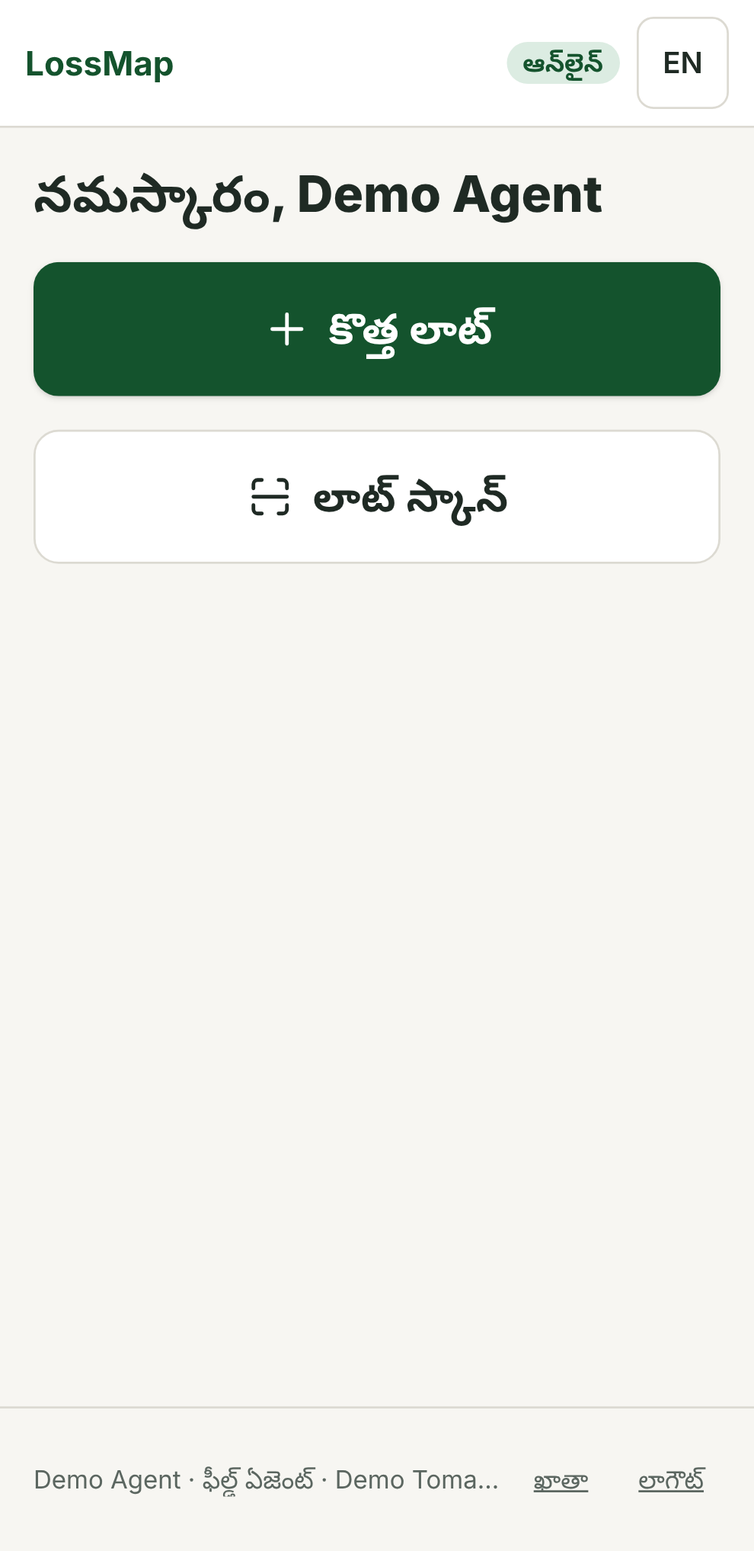
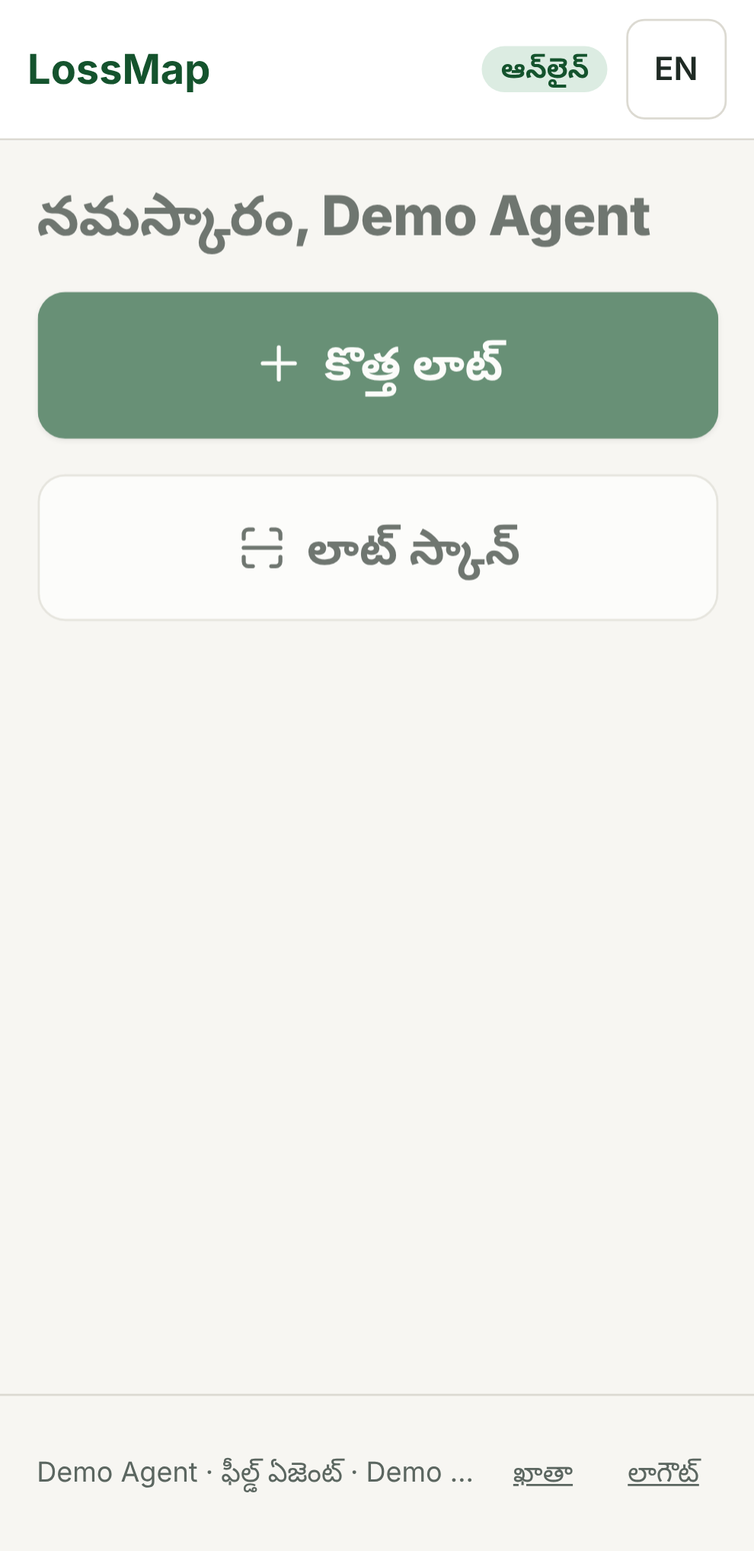
Bigger, more distinctive dashboard and field UI
- Bump the root font-size (16px -> 17.5px) so every rem-based Tailwind
  size (text, padding, tap targets) scales together; verified against
  both 360px-no-overflow e2e tests and the WCAG/tap-target suite.
- Give the manager Overview KPI tiles coloured icon badges (rupee, pin,
  bell) and a gradient treatment on the headline ₹ figure, instead of
  plain text labels, for a more distinctive, scannable dashboard.
- Add hover/press affordances throughout: lifting cards (.card-hover),
  an animated underline on the active nav tab, row hover highlights on
  every clickable table/list row, and a brightness hover on chart bars
  so they read as clickable before you try.
- Add a subtle fade-in-up entrance animation on page content (guarded by
  prefers-reduced-motion) and a shared .skeleton pulse style for loading
  states.
- Bump section/page headings one step up the type scale app-wide for
  clearer hierarchy, and widen the Login/Home hero text.

Verified: 44 core+web unit tests, lint, typecheck, production build, and
all 44 Playwright tests (incl. both 360px-overflow checks and WCAG 2.1
A/AA + 44px tap targets) pass after the type-scale change. Screenshots
regenerated.

diff --git a/web/src/pages/manager/Overview.tsx b/web/src/pages/manager/Overview.tsx
@@ -7,6 +7,7 @@ import { InsightCard } from '../../components/manager/InsightCard.tsx';
 import { loadOverview, loadSegments, type Segment } from '../../lib/manager/analytics.ts';
 import { hoursLabel, inr, pct } from '../../lib/manager/format.ts';
 import { loadMasterCached } from '../../lib/master.ts';
+import { BellIcon, PinIcon, RupeeIcon } from '../../components/Icon.tsx';
 import type { Centre } from '../../lib/db.ts';
 
 const BarsChart = lazy(() => import('../../components/manager/Charts.tsx').then((m) => ({ default: m.BarsChart })));
@@ -28,7 +29,7 @@ export default function Overview() {
   const k = d?.kpis;
   return (
     <ManagerShell>
-      <div className="flex flex-wrap items-center gap-2"><h1 className="text-xl font-extrabold">{t('mgr_overview')}</h1>{orgIsDemo && <SimulatedBadge />}<span className="flex-1" />
+      <div className="flex flex-wrap items-center gap-2"><h1 className="text-2xl font-extrabold">{t('mgr_overview')}</h1>{orgIsDemo && <SimulatedBadge />}<span className="flex-1" />
         <select className="input !min-h-10 !w-auto !text-base" value={days ?? ''} onChange={(e) => setDays(e.target.value ? Number(e.target.value) : null)} aria-label={t('period')}>
           <option value="">{t('allTime')}</option><option value="7">{t('lastDays', { n: 7 })}</option><option value="14">{t('lastDays', { n: 14 })}</option><option value="30">{t('lastDays', { n: 30 })}</option></select></div>
       {err && <p role="alert" className="text-danger">{t('error')}</p>}
@@ -37,30 +38,39 @@ export default function Overview() {
       {d && k && (
         <>
           <div className="grid grid-cols-1 gap-3 sm:grid-cols-3">
-            <div className="card" data-testid="kpi-lost"><div className="text-sm text-muted">{t('kpiLost')}</div><div className="text-3xl font-extrabold" style={{ color: 'var(--s2)' }}>{inr(k.total_loss_rs)}</div><div className="text-sm">{t('kpiOf', { pct: pct(k.loss_pct), value: inr(k.value_in), lots: k.lots })}</div></div>
-            <div className="card" data-testid="kpi-worst"><div className="text-sm text-muted">{t('kpiWorst')}</div><div className="text-xl font-extrabold">{k.worst_centre_name ?? '—'}</div><div className="text-sm">{inr(k.worst_centre_loss_rs)}</div></div>
-            <Link to="/m/alerts" className="card" data-testid="kpi-alerts"><div className="text-sm text-muted">{t('kpiAlerts')}</div><div className="text-3xl font-extrabold">{k.open_alerts}</div></Link>
+            <div className="card flex items-start gap-3" data-testid="kpi-lost">
+              <div className="badge-icon bg-[var(--s2)]/15 text-[var(--s2)]"><RupeeIcon className="size-5" /></div>
+              <div className="min-w-0"><div className="text-sm text-muted">{t('kpiLost')}</div><div className="text-figure text-3xl font-extrabold sm:text-4xl">{inr(k.total_loss_rs)}</div><div className="text-sm">{t('kpiOf', { pct: pct(k.loss_pct), value: inr(k.value_in), lots: k.lots })}</div></div>
+            </div>
+            <div className="card flex items-start gap-3" data-testid="kpi-worst">
+              <div className="badge-icon bg-brand/15 text-brand-strong"><PinIcon className="size-5" /></div>
+              <div className="min-w-0"><div className="text-sm text-muted">{t('kpiWorst')}</div><div className="truncate text-xl font-extrabold sm:text-2xl">{k.worst_centre_name ?? '—'}</div><div className="text-sm">{inr(k.worst_centre_loss_rs)}</div></div>
+            </div>
+            <Link to="/m/alerts" className="card card-hover flex items-start gap-3" data-testid="kpi-alerts">
+              <div className="badge-icon bg-warn/15 text-warn"><BellIcon className="size-5" /></div>
+              <div><div className="text-sm text-muted">{t('kpiAlerts')}</div><div className="text-3xl font-extrabold sm:text-4xl">{k.open_alerts}</div></div>
+            </Link>
           </div>
           <InsightCard />
-          <section className="card space-y-2"><h2 className="font-bold">{t('byStage')}</h2>
+          <section className="card space-y-2"><h2 className="text-lg font-bold">{t('byStage')}</h2>
             <Suspense fallback={<p className="text-muted">{t('loading')}</p>}><div data-testid="stage-chart"><BarsChart label={t('byStage')} data={d.stages.map((s) => ({ key: s.kind, name: t(`stage_${s.kind}`), value: s.total_loss_rs }))} onPick={(kind) => open({ kind, title: t(`stage_${kind}`) })} /></div></Suspense>
             <table className="w-full text-sm" data-testid="stage-table"><thead><tr className="text-left text-muted"><th>{t('stage')}</th><th className="text-right">₹</th><th className="text-right">%</th></tr></thead>
-              <tbody>{d.stages.map((s) => <tr key={s.kind} className="cursor-pointer border-t border-line" onClick={() => open({ kind: s.kind, title: t(`stage_${s.kind}`) })}><td className="py-2">{t(`stage_${s.kind}`)}</td><td className="text-right">{inr(s.total_loss_rs)}</td><td className="text-right">{pct(s.loss_pct)}</td></tr>)}</tbody></table>
+              <tbody>{d.stages.map((s) => <tr key={s.kind} className="cursor-pointer border-t border-line transition-colors hover:bg-line/40" onClick={() => open({ kind: s.kind, title: t(`stage_${s.kind}`) })}><td className="py-2.5">{t(`stage_${s.kind}`)}</td><td className="text-right">{inr(s.total_loss_rs)}</td><td className="text-right">{pct(s.loss_pct)}</td></tr>)}</tbody></table>
             <p className="text-xs text-muted">{t('pctNote')}</p></section>
           <div className="grid gap-4 md:grid-cols-2">
-            <section className="card space-y-2"><h2 className="font-bold">{t('byCentre')}</h2>
-              <ol className="space-y-2" data-testid="centre-ranking">{d.centres.map((c) => <li key={c.centre_id}><button className="flex w-full items-center justify-between gap-2 text-left" onClick={() => open({ centreId: c.centre_id, title: c.centre_name })}><span><b>{c.centre_name}</b><br /><span className="text-xs text-muted">{t('avgWait')} {hoursLabel(c.avg_wait_h)} · {c.lots} {t('lots')}</span></span><span className="text-right"><b style={{ color: 'var(--s2)' }}>{pct(c.loss_pct)}</b><br /><span className="text-xs">{inr(c.total_loss_rs)}</span></span></button></li>)}</ol></section>
-            <section className="card space-y-2"><h2 className="font-bold">{t('byTransporter')}</h2>
-              <ol className="space-y-2" data-testid="transporter-ranking">{d.transporters.map((c) => <li key={c.transporter_id}><button className="flex w-full items-center justify-between gap-2 text-left" onClick={() => open({ transporterId: c.transporter_id, title: c.transporter_name })}><span><b>{c.transporter_name}</b><br /><span className="text-xs text-muted">{c.vehicle_no} · {c.trips} {t('trips')} · {hoursLabel(c.avg_transport_h)}</span></span><span className="text-right"><b>{pct(c.loss_pct)}</b><br /><span className="text-xs">{inr(c.total_loss_rs)}</span></span></button></li>)}</ol></section>
+            <section className="card space-y-2"><h2 className="text-lg font-bold">{t('byCentre')}</h2>
+              <ol className="space-y-2" data-testid="centre-ranking">{d.centres.map((c) => <li key={c.centre_id}><button className="flex w-full items-center justify-between gap-2 rounded-lg p-2 text-left transition-colors hover:bg-line/40" onClick={() => open({ centreId: c.centre_id, title: c.centre_name })}><span><b>{c.centre_name}</b><br /><span className="text-xs text-muted">{t('avgWait')} {hoursLabel(c.avg_wait_h)} · {c.lots} {t('lots')}</span></span><span className="text-right"><b style={{ color: 'var(--s2)' }}>{pct(c.loss_pct)}</b><br /><span className="text-xs">{inr(c.total_loss_rs)}</span></span></button></li>)}</ol></section>
+            <section className="card space-y-2"><h2 className="text-lg font-bold">{t('byTransporter')}</h2>
+              <ol className="space-y-2" data-testid="transporter-ranking">{d.transporters.map((c) => <li key={c.transporter_id}><button className="flex w-full items-center justify-between gap-2 rounded-lg p-2 text-left transition-colors hover:bg-line/40" onClick={() => open({ transporterId: c.transporter_id, title: c.transporter_name })}><span><b>{c.transporter_name}</b><br /><span className="text-xs text-muted">{c.vehicle_no} · {c.trips} {t('trips')} · {hoursLabel(c.avg_transport_h)}</span></span><span className="text-right"><b>{pct(c.loss_pct)}</b><br /><span className="text-xs">{inr(c.total_loss_rs)}</span></span></button></li>)}</ol></section>
           </div>
-          <section className="card space-y-2"><h2 className="font-bold">{t('byHour')}</h2>
+          <section className="card space-y-2"><h2 className="text-lg font-bold">{t('byHour')}</h2>
             <Suspense fallback={null}><BarsChart label={t('byHour')} data={d.hours.map((h) => ({ key: String(h.arrival_hour), name: `${h.arrival_hour}:00`, value: h.total_loss_rs }))} onPick={(h) => open({ hour: Number(h), title: `${h}:00` })} /></Suspense>
             <table className="w-full text-sm" data-testid="hour-table"><thead><tr className="text-left text-muted"><th>{t('arrivalHour')}</th><th className="text-right">{t('avgWait')}</th><th className="text-right">%</th></tr></thead>
-              <tbody>{d.hours.map((h) => <tr key={h.arrival_hour} className="border-t border-line"><td className="py-1">{h.arrival_hour}:00</td><td className="text-right">{hoursLabel(h.avg_wait_h)}</td><td className="text-right">{pct(h.loss_pct)}</td></tr>)}</tbody></table></section>
+              <tbody>{d.hours.map((h) => <tr key={h.arrival_hour} className="border-t border-line transition-colors hover:bg-line/40"><td className="py-1.5">{h.arrival_hour}:00</td><td className="text-right">{hoursLabel(h.avg_wait_h)}</td><td className="text-right">{pct(h.loss_pct)}</td></tr>)}</tbody></table></section>
           {drill && (
-            <section className="card space-y-2" data-testid="drill-panel"><div className="flex items-center justify-between"><h2 className="font-bold">{drill.title}</h2><button className="underline" onClick={() => setDrill(null)}>{t('close')}</button></div>
+            <section className="card animate-in space-y-2" data-testid="drill-panel"><div className="flex items-center justify-between"><h2 className="text-lg font-bold">{drill.title}</h2><button className="underline" onClick={() => setDrill(null)}>{t('close')}</button></div>
               {!segs && <p className="text-muted">{t('loading')}</p>}
-              <ul className="divide-y divide-line text-sm">{(segs ?? []).slice(0, 30).map((s) => <li key={s.to_checkpoint_id}><Link className="flex justify-between gap-2 py-2" to={`/m/lot/${s.lot_code}`}><span>{s.lot_code} · {t(`stage_${s.kind}`)} · {hoursLabel(s.duration_h)}</span><b>{inr(s.total_loss_rs)}</b></Link></li>)}</ul></section>
+              <ul className="divide-y divide-line text-sm">{(segs ?? []).slice(0, 30).map((s) => <li key={s.to_checkpoint_id}><Link className="flex justify-between gap-2 rounded-lg px-2 py-2.5 transition-colors hover:bg-line/40" to={`/m/lot/${s.lot_code}`}><span>{s.lot_code} · {t(`stage_${s.kind}`)} · {hoursLabel(s.duration_h)}</span><b>{inr(s.total_loss_rs)}</b></Link></li>)}</ul></section>
           )}
           {mapCentres.length > 0 && mapOk && <Suspense fallback={null}><ErrorCatch onError={() => setMapOk(false)}><CentreMap centres={mapCentres} /></ErrorCatch></Suspense>}
           {(!mapOk || mapCentres.length === 0) && <ul className="card text-sm" data-testid="centre-list">{d.centres.map((c) => <li key={c.centre_id}>{c.centre_name}: {inr(c.total_loss_rs)}</li>)}</ul>}

diff --git a/web/src/index.css b/web/src/index.css
@@ -9,21 +9,45 @@
   --color-brand: var(--brand); --color-brand-strong: var(--brand-strong); --color-warn: var(--warn); --color-danger: var(--danger);
   --font-sans: 'Inter Variable', 'Noto Sans Telugu', system-ui, sans-serif;
 }
-body { background: var(--bg); color: var(--text); font-family: var(--font-sans); }
+/* A modest root bump (16px -> 17.5px) scales every rem-based Tailwind size at once: text, padding, tap targets all
+   grow together and stay proportional, instead of hand-tuning dozens of text-* classes one by one. */
+html { font-size: 17.5px; }
+body { background: var(--bg); color: var(--text); font-family: var(--font-sans); line-height: 1.5; }
+h1, h2, h3 { letter-spacing: -0.01em; }
+@media (prefers-reduced-motion: no-preference) {
+  .animate-in { animation: fadeInUp .35s cubic-bezier(.16,1,.3,1) both; }
+  .animate-in-delay-1 { animation-delay: .05s; }
+  .animate-in-delay-2 { animation-delay: .1s; }
+}
+@keyframes fadeInUp { from { opacity: 0; transform: translateY(6px); } to { opacity: 1; transform: translateY(0); } }
+@keyframes pulse-soft { 0%, 100% { opacity: 1; } 50% { opacity: .55; } }
+.skeleton { border-radius: .5rem; background: var(--line); animation: pulse-soft 1.4s ease-in-out infinite; }
+
+/* A reusable "premium figure" treatment for the headline ₹ numbers: a subtle brand gradient instead of flat colour. */
+.text-figure { background: linear-gradient(135deg, var(--s2), color-mix(in srgb, var(--s2) 70%, #f59e0b)); background-clip: text; -webkit-background-clip: text; color: transparent; }
+
 @layer components {
-  .btn { display:flex; min-height:3rem; width:100%; align-items:center; justify-content:center; gap:.5rem; border-radius:.75rem; border:1px solid var(--line); background:var(--surface); padding:.5rem 1rem; font-weight:600; transition:background-color .12s ease, border-color .12s ease, transform .08s ease; }
-  .btn:hover:not(:disabled) { border-color:var(--muted); }
-  .btn:active:not(:disabled) { transform:scale(.98); }
+  .btn { display:flex; min-height:3rem; width:100%; align-items:center; justify-content:center; gap:.5rem; border-radius:.75rem; border:1px solid var(--line); background:var(--surface); padding:.5rem 1rem; font-weight:600; transition:background-color .15s ease, border-color .15s ease, transform .1s ease, box-shadow .15s ease; }
+  .btn:hover:not(:disabled) { border-color:var(--muted); box-shadow:0 2px 8px rgb(0 0 0 / .06); transform:translateY(-1px); }
+  .btn:active:not(:disabled) { transform:scale(.98) translateY(0); box-shadow:none; }
   .btn:disabled { opacity:.5; }
-  .btn-primary { background:var(--brand-strong); color:#fff; border-color:transparent; box-shadow:0 1px 2px rgb(0 0 0 / .06); }
-  .btn-primary:hover:not(:disabled) { background:var(--brand); }
+  .btn-primary { background:var(--brand-strong); color:#fff; border-color:transparent; box-shadow:0 1px 3px rgb(0 0 0 / .1); }
+  .btn-primary:hover:not(:disabled) { background:var(--brand); box-shadow:0 4px 14px color-mix(in srgb, var(--brand) 35%, transparent); }
   :root[data-theme='dark'] .btn-primary { color:#052e16; background:var(--brand); }
   :root[data-theme='dark'] .btn-primary:hover:not(:disabled) { background:var(--brand-strong); color:#eef2ee; }
   .input { min-height:3rem; width:100%; border-radius:.75rem; border:1px solid var(--line); background:var(--surface); padding:.5rem .75rem; font-size:1.125rem; color:var(--text); transition:border-color .12s ease, box-shadow .12s ease; }
   .input:focus-visible { outline:none; border-color:var(--brand); box-shadow:0 0 0 3px color-mix(in srgb, var(--brand) 25%, transparent); }
-  .card { border-radius:.875rem; border:1px solid var(--line); background:var(--surface); padding:.875rem; box-shadow:0 1px 2px rgb(0 0 0 / .04); }
+  .card { border-radius:1rem; border:1px solid var(--line); background:var(--surface); padding:1rem; box-shadow:0 1px 3px rgb(0 0 0 / .04); transition:box-shadow .18s ease, transform .18s ease, border-color .18s ease; }
+  .card-hover:hover, a.card:hover, button.card:hover { box-shadow:0 8px 24px rgb(0 0 0 / .08); transform:translateY(-2px); border-color:color-mix(in srgb, var(--brand) 30%, var(--line)); }
   .label { display:block; margin-bottom:.25rem; font-size:.875rem; font-weight:600; color:var(--muted); }
+  .badge-icon { display:grid; place-items:center; border-radius:9999px; width:2.5rem; height:2.5rem; flex-shrink:0; }
+  .nav-link { position:relative; white-space:nowrap; border-radius:.5rem; padding:.5rem .75rem; font-size:.875rem; font-weight:600; transition:color .15s ease, background-color .15s ease; }
+  .nav-link::after { content:''; position:absolute; left:.75rem; right:.75rem; bottom:-.5rem; height:2px; border-radius:2px; background:var(--brand-strong); transform:scaleX(0); transition:transform .18s ease; transform-origin:left; }
+  .nav-link[aria-current='page']::after { transform:scaleX(1); }
 }
 :focus-visible { outline:2px solid var(--brand); outline-offset:2px; }
 ::selection { background:color-mix(in srgb, var(--brand) 30%, transparent); }
+/* Recharts draws bars as plain SVG rects; a hover brightness bump gives clickable charts the same affordance as the buttons beside them. */
+.recharts-bar-rectangle { transition: filter .12s ease; cursor: pointer; }
+.recharts-bar-rectangle:hover { filter: brightness(1.12); }
 @media print { header, footer, nav, .no-print { display:none !important; } }

diff --git a/web/src/pages/manager/Settings.tsx b/web/src/pages/manager/Settings.tsx
@@ -90,16 +90,16 @@ export default function Settings() {
   }
   return (
     <ManagerShell>
-      <div className="flex items-center gap-2"><h1 className="text-xl font-extrabold">{t('mgr_settings')}</h1>{orgIsDemo && <SimulatedBadge />}</div>
+      <div className="flex items-center gap-2"><h1 className="text-2xl font-extrabold">{t('mgr_settings')}</h1>{orgIsDemo && <SimulatedBadge />}</div>
       {error && <p role="alert" className="text-danger">{t('error')}</p>}
       {!m && !error && <p className="text-muted">{t('loading')}</p>}
       {orgIsDemo && (
-        <section className="card space-y-2" data-testid="demo-controls"><h2 className="font-bold">{t('simulatedBanner')}</h2>
+        <section className="card space-y-2" data-testid="demo-controls"><h2 className="text-lg font-bold">{t('simulatedBanner')}</h2>
           <div className="grid grid-cols-2 gap-2"><button className="btn btn-primary !min-h-12 text-base" disabled={demoBusy} onClick={() => void demo('load')} data-testid="demo-load">{t('loadDemo')}</button><button className="btn !min-h-12 text-base" disabled={demoBusy} onClick={() => void demo('reset')} data-testid="demo-reset">{t('resetDemo')}</button></div>
           {demoMsg && <p role="status" className="text-sm text-muted" data-testid="demo-msg">{demoMsg}</p>}</section>
       )}
       {m && (<>
-        <section className="space-y-2"><h2 className="font-bold">{t('settingsCrops')}</h2>
+        <section className="space-y-2"><h2 className="text-lg font-bold">{t('settingsCrops')}</h2>
           {m.crops.length === 0 && <p className="text-sm text-warn" data-testid="no-crops">{t('noCropsHint')}</p>}
           {m.crops.map((c) => <CropRow key={c.id} crop={c} onSaved={() => void reload()} />)}
           <div className="card space-y-2" data-testid="add-crop"><b>{t('addCrop')}</b>
@@ -109,7 +109,7 @@ export default function Settings() {
               <Field label={t('heatThreshold')} value={newCrop.heat} onChange={(x) => setNewCrop({ ...newCrop, heat: x })} /><Field label={t('maxWait')} value={newCrop.wait} step="0.5" onChange={(x) => setNewCrop({ ...newCrop, wait: x })} />
             </div>
             <div className="flex items-center gap-3"><button className="btn !min-h-10 !w-auto text-base" onClick={() => void addCrop()} data-testid="crop-add">{t('addCrop')}</button>{addMsg && <span className="text-sm text-muted" role="status" data-testid="add-msg">{addMsg}</span>}</div></div></section>
-        <section className="space-y-2"><h2 className="font-bold">{t('settingsCentres')}</h2>
+        <section className="space-y-2"><h2 className="text-lg font-bold">{t('settingsCentres')}</h2>
           {m.centres.length === 0 && <p className="text-sm text-warn" data-testid="no-centres">{t('noCentresHint')}</p>}
           {m.centres.map((c) => <CentreRow key={c.id} c={c} onSaved={() => void reload()} />)}
           <div className="card space-y-2"><b>{t('addCentre')}</b>
@@ -119,13 +119,13 @@ export default function Settings() {
               <Field label={t('lat')} value={newC.lat} step="0.0001" onChange={(x) => setNewC({ ...newC, lat: x })} /><Field label={t('lng')} value={newC.lng} step="0.0001" onChange={(x) => setNewC({ ...newC, lng: x })} />
             </div>
             <button className="btn !min-h-10 !w-auto text-base" onClick={() => void addCentre()}>{t('addCentre')}</button></div></section>
-        <section className="space-y-2"><h2 className="font-bold">{t('settingsTransporters')}</h2>
+        <section className="space-y-2"><h2 className="text-lg font-bold">{t('settingsTransporters')}</h2>
           {m.transporters.map((tr) => <div key={tr.id} className="card text-sm"><b>{tr.name}</b>{tr.vehicle_no ? ` · ${tr.vehicle_no}` : ''}</div>)}
           <div className="card space-y-2"><div className="grid grid-cols-2 gap-2"><Field label={t('name')} type="text" value={newT.name} onChange={(x) => setNewT({ ...newT, name: x })} /><Field label={t('vehicleNo')} type="text" value={newT.vehicle} onChange={(x) => setNewT({ ...newT, vehicle: x })} /></div>
             <button className="btn !min-h-10 !w-auto text-base" onClick={() => void addTransporter()}>{t('addTransporter')}</button></div></section>
       </>)}
       {!orgIsDemo && <TeamSection />}
-      <section className="card space-y-2" data-testid="telegram-card"><h2 className="font-bold">{t('telegramTitle')}</h2><p className="text-sm text-muted">{tgOn ? t('telegramConnected') : t('telegramNot')}</p>
+      <section className="card space-y-2" data-testid="telegram-card"><h2 className="text-lg font-bold">{t('telegramTitle')}</h2><p className="text-sm text-muted">{tgOn ? t('telegramConnected') : t('telegramNot')}</p>
         <button className="btn !min-h-10 !w-auto text-base" onClick={() => void connectTelegram()} data-testid="telegram-connect">{t('telegramConnect')}</button>
         {tgUrl !== null && (tgUrl === '' ? <p className="text-sm text-warn">{t('telegramBotMissing')}</p> : <p className="text-sm"><a className="font-semibold text-brand-strong underline" href={tgUrl} target="_blank" rel="noreferrer" data-testid="telegram-link">{tgUrl}</a><br /><span className="text-muted">{t('telegramHint')}</span></p>)}</section>
     </ManagerShell>

diff --git a/web/src/pages/Login.tsx b/web/src/pages/Login.tsx
@@ -18,21 +18,21 @@ export default function Login() {
   async function submit(e: FormEvent) { e.preventDefault(); setBusy(true); setError(null); const err = await signIn(email, password); setBusy(false); if (err) setError(t('loginFailed')); }
   const lang = i18n.language as Lang;
   return (
-    <div className="mx-auto flex min-h-dvh max-w-md flex-col justify-center gap-4 p-6">
-      <div className="flex items-start justify-between"><div><h1 className="text-3xl font-extrabold text-brand-strong">LossMap</h1><p className="text-muted">{t('tagline')}</p></div>
+    <div className="animate-in mx-auto flex min-h-dvh max-w-md flex-col justify-center gap-4 p-6">
+      <div className="flex items-start justify-between"><div><h1 className="text-figure text-4xl font-extrabold">LossMap</h1><p className="text-muted">{t('tagline')}</p></div>
         <button className="min-h-11 min-w-11 rounded-lg border border-line px-2 text-sm font-semibold" aria-label={t('language')} onClick={() => setLang(lang === 'te' ? 'en' : 'te')}>{lang === 'te' ? 'EN' : 'తె'}</button></div>
       {!isConfigured && <p role="alert" className="card text-sm text-warn">{t('notConfigured')}</p>}
       <form onSubmit={(e) => void submit(e)} className="space-y-3">
         <label className="block"><span className="label">{t('email')}</span><input className="input" type="email" autoComplete="username" value={email} onChange={(e) => setEmail(e.target.value)} required /></label>
         <label className="block"><span className="label">{t('password')}</span><input className="input" type="password" autoComplete="current-password" value={password} onChange={(e) => setPassword(e.target.value)} required /></label>
         {error && <p role="alert" className="text-danger">{error}</p>}
-        <button className="btn btn-primary" disabled={busy} data-testid="login-submit">{busy ? t('signingIn') : t('signIn')}</button>
+        <button className="btn btn-primary text-lg" disabled={busy} data-testid="login-submit">{busy ? t('signingIn') : t('signIn')}</button>
       </form>
       <section className="card space-y-2" aria-label={t('demoLogins')}>
         <h2 className="text-sm font-bold">{t('demoLogins')}</h2>
         {DEMO.map((d) => (
-          <div key={d.email} className="flex items-center justify-between gap-2 text-sm"><span className="min-w-0"><b>{t(d.role)}</b><br /><span className="break-all text-muted">{d.email}</span></span>
-            <button type="button" className="rounded-lg border border-line px-3 py-2 font-semibold" onClick={() => { setEmail(d.email); setPassword(DEMO_PASSWORD); }}>{t('useThis')}</button></div>
+          <div key={d.email} className="flex items-center justify-between gap-2 rounded-lg p-1.5 text-sm transition-colors hover:bg-line/40"><span className="min-w-0"><b>{t(d.role)}</b><br /><span className="break-all text-muted">{d.email}</span></span>
+            <button type="button" className="rounded-lg border border-line px-3 py-2 font-semibold transition-colors hover:border-brand hover:text-brand-strong" onClick={() => { setEmail(d.email); setPassword(DEMO_PASSWORD); }}>{t('useThis')}</button></div>
         ))}
         <p className="text-xs text-muted">{t('demoPasswordShown', { password: DEMO_PASSWORD })}</p>
       </section>

diff --git a/web/src/components/manager/ManagerShell.tsx b/web/src/components/manager/ManagerShell.tsx
@@ -15,12 +15,12 @@ export function ManagerShell({ children }: { children: ReactNode }) {
   const [theme, setTheme] = useState<Theme>(getTheme());
   const pending = usePendingCount(profile?.user_id);
   const lang = i18n.language as Lang;
-  const link = ({ isActive }: { isActive: boolean }) => `whitespace-nowrap rounded-lg px-3 py-2 text-sm font-semibold ${isActive ? 'bg-brand/15 text-brand-strong' : 'text-muted'}`;
+  const link = ({ isActive }: { isActive: boolean }) => `nav-link ${isActive ? 'bg-brand/15 text-brand-strong' : 'text-muted hover:bg-line/50 hover:text-text'}`;
   return (
     <div className="min-h-dvh">
       <header className="sticky top-0 z-20 border-b border-line bg-surface">
         <div className="mx-auto flex max-w-6xl items-center gap-2 px-3 py-2">
-          <Link to="/m" className="font-extrabold text-brand-strong">LossMap</Link>
+          <Link to="/m" className="text-lg font-extrabold text-brand-strong">LossMap</Link>
           <span className="hidden truncate text-sm text-muted sm:inline">{orgName}</span><span className="flex-1" />
           {pending > 0 && <Link to="/queue" className="flex items-center gap-0.5 rounded-full bg-warn/15 px-2 py-0.5 text-xs font-semibold text-warn"><ArrowUpIcon className="size-3.5" /> {pending}</Link>}
           <Link to="/?field=1" className="hidden min-h-10 items-center rounded-lg border border-line px-3 text-sm font-semibold sm:inline-flex">{t('fieldApp')}</Link>
@@ -35,7 +35,7 @@ export function ManagerShell({ children }: { children: ReactNode }) {
           <Link to="/?field=1" className="whitespace-nowrap rounded-lg px-3 py-2 text-sm font-semibold text-muted sm:hidden">{t('fieldApp')}</Link>
         </nav>
       </header>
-      <main className="mx-auto max-w-6xl space-y-4 p-3 sm:p-4">{profile?.role === 'manager' ? <><TempPasswordBanner />{children}</> : null}</main>
+      <main className="animate-in mx-auto max-w-6xl space-y-4 p-3 sm:p-4">{profile?.role === 'manager' ? <><TempPasswordBanner />{children}</> : null}</main>
     </div>
   );
 }

diff --git a/web/src/components/Shell.tsx b/web/src/components/Shell.tsx
@@ -18,12 +18,12 @@ export function Shell({ children, title, back }: { children: ReactNode; title?: 
     <div className="mx-auto flex min-h-dvh w-full max-w-md flex-col">
       <header className="sticky top-0 z-10 flex items-center gap-2 border-b border-line bg-surface px-3 py-2">
         {back ? <Link to={back} className="grid size-11 place-items-center" aria-label={t('back')}><ArrowLeftIcon className="size-6" /></Link> : null}
-        <Link to="/" className="flex min-h-11 min-w-0 flex-1 items-center truncate font-bold text-brand-strong">{title ?? 'LossMap'}</Link>
+        <Link to="/" className="flex min-h-11 min-w-0 flex-1 items-center truncate text-lg font-bold text-brand-strong">{title ?? 'LossMap'}</Link>
         {pending > 0 && <Link to="/queue" className="flex items-center gap-0.5 rounded-full bg-warn/15 px-2 py-0.5 text-xs font-semibold text-warn" data-testid="pending-badge"><ArrowUpIcon className="size-3.5" /> {pending}</Link>}
         <span className={`rounded-full px-2 py-0.5 text-xs font-semibold ${online ? 'bg-brand/15 text-brand-strong' : 'bg-warn/15 text-warn'}`} data-testid="online-badge">{online ? t('online') : t('offline')}</span>
         <button className="min-h-11 min-w-11 rounded-lg border border-line px-2 text-sm font-semibold" onClick={() => setLang(lang === 'te' ? 'en' : 'te')} aria-label={t('language')} data-testid="lang-toggle">{lang === 'te' ? 'EN' : 'తె'}</button>
       </header>
-      <main className="flex-1 space-y-4 p-4"><TempPasswordBanner />{children}</main>
+      <main className="animate-in flex-1 space-y-4 p-4"><TempPasswordBanner />{children}</main>
       {profile ? (
         <footer className="flex items-center gap-2 border-t border-line px-4 py-3 text-xs text-muted">
           <span className="min-w-0 flex-1 truncate">{profile.name} · {t(`role_${profile.role}`)}{orgName ? ` · ${orgName}` : ''}</span>

diff --git a/web/src/pages/manager/LotDetail.tsx b/web/src/pages/manager/LotDetail.tsx
@@ -39,12 +39,12 @@ export default function LotDetail() {
   let run = 0; steps.forEach((s) => { s.base = run; run += s.loss; });
   return (
     <ManagerShell>
-      <h1 className="text-xl font-extrabold">{lot.short_code} <span className="text-base font-normal text-muted">{lot.crop?.name} · {lot.farmer?.name}, {lot.farmer?.village}</span></h1>
-      <p className="text-sm" data-testid="lot-total">{t('lotTotal')}: <b style={{ color: 'var(--s2)' }}>{inr(total)}</b></p>
+      <h1 className="text-2xl font-extrabold">{lot.short_code} <span className="text-base font-normal text-muted">{lot.crop?.name} · {lot.farmer?.name}, {lot.farmer?.village}</span></h1>
+      <p className="text-base" data-testid="lot-total">{t('lotTotal')}: <b className="text-figure text-lg">{inr(total)}</b></p>
       {segs.length > 0 && <Suspense fallback={null}><Waterfall steps={steps} label={t('waterfall')} /></Suspense>}
       <ul className="space-y-2" data-testid="segments">
         {segs.map((s) => (
-          <li key={s.to_checkpoint_id} className="card space-y-1" data-testid="segment">
+          <li key={s.to_checkpoint_id} className="card card-hover space-y-1" data-testid="segment">
             <div className="flex justify-between gap-2"><b>{t(`stage_${s.kind}`)} · {hoursLabel(s.duration_h)}</b><b>{inr(s.total_loss_rs)} ({pct(s.loss_pct)})</b></div>
             <div className="text-sm text-muted">{s.weight_from_kg} → {s.weight_to_kg} kg · ₹{Math.round(s.weight_loss_rs)} {t('weightPart')} + ₹{Math.round(s.quality_loss_rs)} {t('qualityPart')}</div>
             {s.measurement_variance && <div className="text-sm text-warn">{t('variance')}</div>}

diff --git a/web/src/pages/manager/LotsList.tsx b/web/src/pages/manager/LotsList.tsx
@@ -12,11 +12,11 @@ export default function LotsList() {
   const shown = useMemo(() => (rows ?? []).filter((r) => `${r.short_code} ${r.farmer?.name} ${r.farmer?.village}`.toLowerCase().includes(q.toLowerCase())), [rows, q]);
   return (
     <ManagerShell>
-      <h1 className="text-xl font-extrabold">{t('mgr_lots')}</h1>
+      <h1 className="text-2xl font-extrabold">{t('mgr_lots')}</h1>
       <input className="input" placeholder={t('search')} aria-label={t('search')} value={q} onChange={(e) => setQ(e.target.value)} data-testid="lots-search" />
       {!rows && <p className="text-muted">{t('loading')}</p>}
       <table className="w-full text-sm" data-testid="lots-table"><thead><tr className="text-left text-muted"><th>{t('lot')}</th><th>{t('farmer')}</th><th>{t('status')}</th></tr></thead>
-        <tbody>{shown.map((r) => <tr key={r.id} className="border-t border-line"><td className="py-2"><Link className="font-semibold underline" to={`/m/lot/${r.short_code}`}>{r.short_code}</Link></td><td>{r.farmer?.name}, {r.farmer?.village}</td><td>{t(`status_${r.status}`)}</td></tr>)}</tbody></table>
+        <tbody>{shown.map((r) => <tr key={r.id} className="border-t border-line transition-colors hover:bg-line/40"><td className="py-2.5"><Link className="font-semibold text-brand-strong underline-offset-2 hover:underline" to={`/m/lot/${r.short_code}`}>{r.short_code}</Link></td><td>{r.farmer?.name}, {r.farmer?.village}</td><td>{t(`status_${r.status}`)}</td></tr>)}</tbody></table>
     </ManagerShell>
   );
 }

diff --git a/web/src/pages/Account.tsx b/web/src/pages/Account.tsx
@@ -24,7 +24,7 @@ function AccountBody() {
   }
   return (
     <>
-      <h1 className="text-xl font-extrabold">{t('account')}</h1>
+      <h1 className="text-2xl font-extrabold">{t('account')}</h1>
       <section className="card space-y-1 text-sm" data-testid="account-details">
         <div><b>{profile?.name}</b> · {profile ? t(`role_${profile.role}`) : ''}</div>
         {orgName && <div className="text-muted">{orgName}</div>}
@@ -32,7 +32,7 @@ function AccountBody() {
       </section>
       {orgIsDemo ? <p className="card text-sm text-muted" data-testid="demo-password-note">{t('demoPasswordNote')}</p> : (
         <form className="card space-y-2" onSubmit={(e) => { e.preventDefault(); void change(); }} data-testid="password-form">
-          <h2 className="font-bold">{t('changePassword')}</h2>
+          <h2 className="text-lg font-bold">{t('changePassword')}</h2>
           <label className="block"><span className="label">{t('newPassword')}</span><input className="input" type="password" autoComplete="new-password" value={pw} onChange={(e) => setPw(e.target.value)} data-testid="new-password" /></label>
           <label className="block"><span className="label">{t('repeatPassword')}</span><input className="input" type="password" autoComplete="new-password" value={again} onChange={(e) => setAgain(e.target.value)} data-testid="repeat-password" /></label>
           <p className="text-xs text-muted">{t('passwordRules')}</p>

diff --git a/web/src/pages/manager/AlertsPage.tsx b/web/src/pages/manager/AlertsPage.tsx
@@ -11,12 +11,12 @@ export default function AlertsPage() {
   useEffect(() => { void reload(); }, []);
   return (
     <ManagerShell>
-      <h1 className="text-xl font-extrabold">{t('mgr_alerts')}</h1>
+      <h1 className="text-2xl font-extrabold">{t('mgr_alerts')}</h1>
       {err && <p role="alert" className="text-danger">{t('error')}</p>}
       {rows?.length === 0 && <p>{t('noAlerts')}</p>}
       <ul className="space-y-2" data-testid="alerts-list">
         {(rows ?? []).map((a) => (
-          <li key={a.id} className="card flex flex-wrap items-center gap-2" data-testid="alert-item">
+          <li key={a.id} className="card card-hover flex flex-wrap items-center gap-2" data-testid="alert-item">
             <span className={`rounded-full px-2 py-0.5 text-xs font-bold ${a.severity === 'critical' ? 'bg-danger/15 text-danger' : 'bg-warn/15 text-warn'}`}>{t(`severity_${a.severity}`)}</span>
             <span className="min-w-0 flex-1">{i18n.language === 'te' && a.message_te ? a.message_te : a.message_en}<br /><Link className="text-xs underline" to={`/m/lot/${a.lot?.short_code}`}>{a.lot?.short_code}</Link></span>
             {a.acknowledged_at ? <span className="text-xs text-muted">{t('acknowledged')}</span> : <button className="btn !min-h-10 !w-auto text-sm" onClick={() => void acknowledgeAlert(a.id).then(reload)} data-testid="alert-ack">{t('acknowledge')}</button>}

diff --git a/web/src/components/manager/InsightCard.tsx b/web/src/components/manager/InsightCard.tsx
@@ -11,7 +11,7 @@ export function InsightCard() {
   const rec = (() => { try { const j = JSON.parse(row?.recommendation ?? '{}') as { en?: string; te?: string }; return te ? j.te ?? j.en : j.en; } catch { return null; } })();
   return (
     <section className="card space-y-2" data-testid="insight-card">
-      <div className="flex items-center justify-between gap-2"><h2 className="font-bold">{t('insightTitle')}</h2>
+      <div className="flex items-center justify-between gap-2"><h2 className="text-lg font-bold">{t('insightTitle')}</h2>
         <button className="btn !min-h-10 !w-auto text-sm" onClick={() => void run()} disabled={busy} data-testid="insight-generate">{busy ? t('loading') : t('insightGenerate')}</button></div>
       {err && <p role="alert" className="text-danger text-sm">{t('error')}</p>}
       {row ? (<><p data-testid="insight-text">{te && row.text_te ? row.text_te : row.text_en}</p>{rec && <p className="text-sm font-semibold text-brand-strong" data-testid="insight-rec">{t('recommendation')}: {rec}</p>}

diff --git a/web/src/components/Icon.tsx b/web/src/components/Icon.tsx
@@ -29,3 +29,12 @@ export const CameraIcon = ({ className }: { className?: string }) => (
     <circle cx="12" cy="13" r="3.25" />
   </svg>
 );
+export const RupeeIcon = ({ className }: { className?: string }) => (
+  <svg {...base} className={cn(className)}><path d="M6 4h12M6 9h12M6 4c4 0 7 1.5 7 4.5S14 14 10 14h-4l8 7" /></svg>
+);
+export const PinIcon = ({ className }: { className?: string }) => (
+  <svg {...base} className={cn(className)}><path d="M12 21s-7-6.1-7-11a7 7 0 1 1 14 0c0 4.9-7 11-7 11Z" /><circle cx="12" cy="10" r="2.5" /></svg>
+);
+export const BellIcon = ({ className }: { className?: string }) => (
+  <svg {...base} className={cn(className)}><path d="M6 10a6 6 0 1 1 12 0c0 4 1.5 5.5 1.5 5.5h-15S6 14 6 10Z" /><path d="M10 19a2 2 0 0 0 4 0" /></svg>
+);
